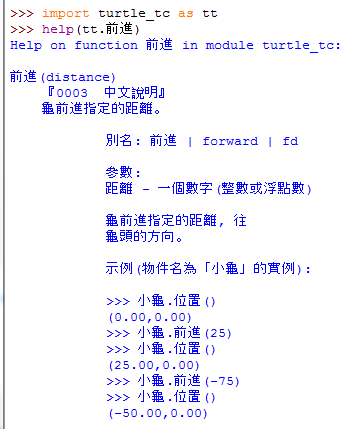
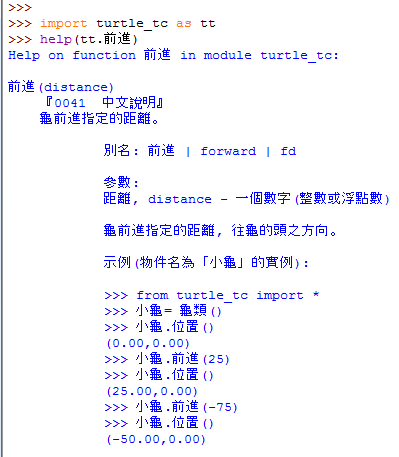
a doc file for turtle_tc.py
a doc file for turtle_tc.py

most of it was translated by Google translator currently. It still needs
human polishing.

diff --git a/turtle_docstringdict_tc.py b/turtle_docstringdict_tc.py
@@ -348,13 +348,14 @@ docsdict = {
         別名: 前進 | forward | fd
 
         參數:
-        距離 - 一個數字(整數或浮點數)
+        距離, distance - 一個數字(整數或浮點數)
 
-        龜前進指定的距離, 往
-        龜頭的方向。
+        龜前進指定的距離, 往龜的頭之方向。
 
         示例(物件名為「小龜」的實例):
-
+        
+        >>> from turtle_tc import *
+        >>> 小龜= 龜類()
         >>> 小龜.位置()
         (0.00,0.00)
         >>> 小龜.前進(25)
